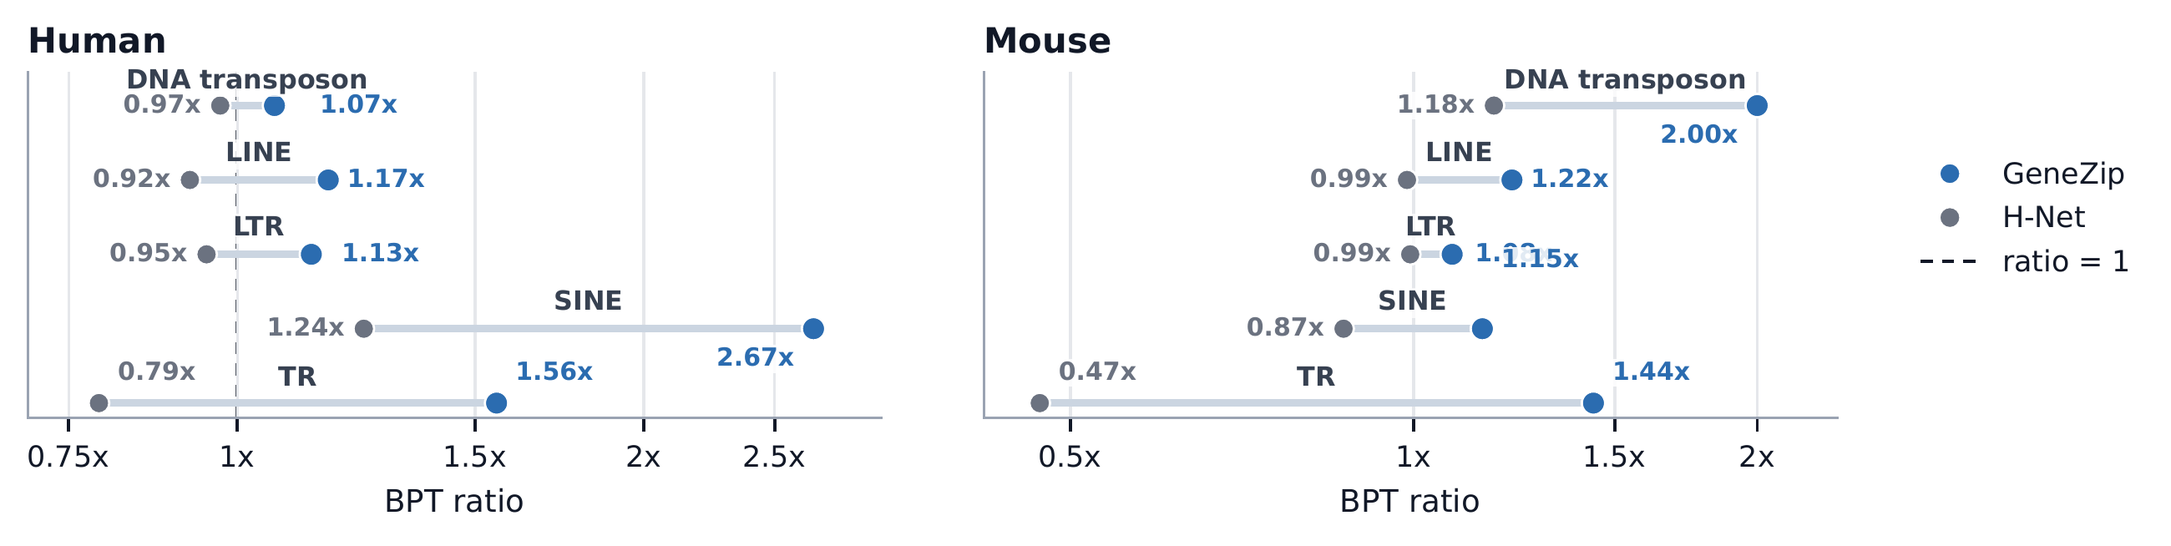
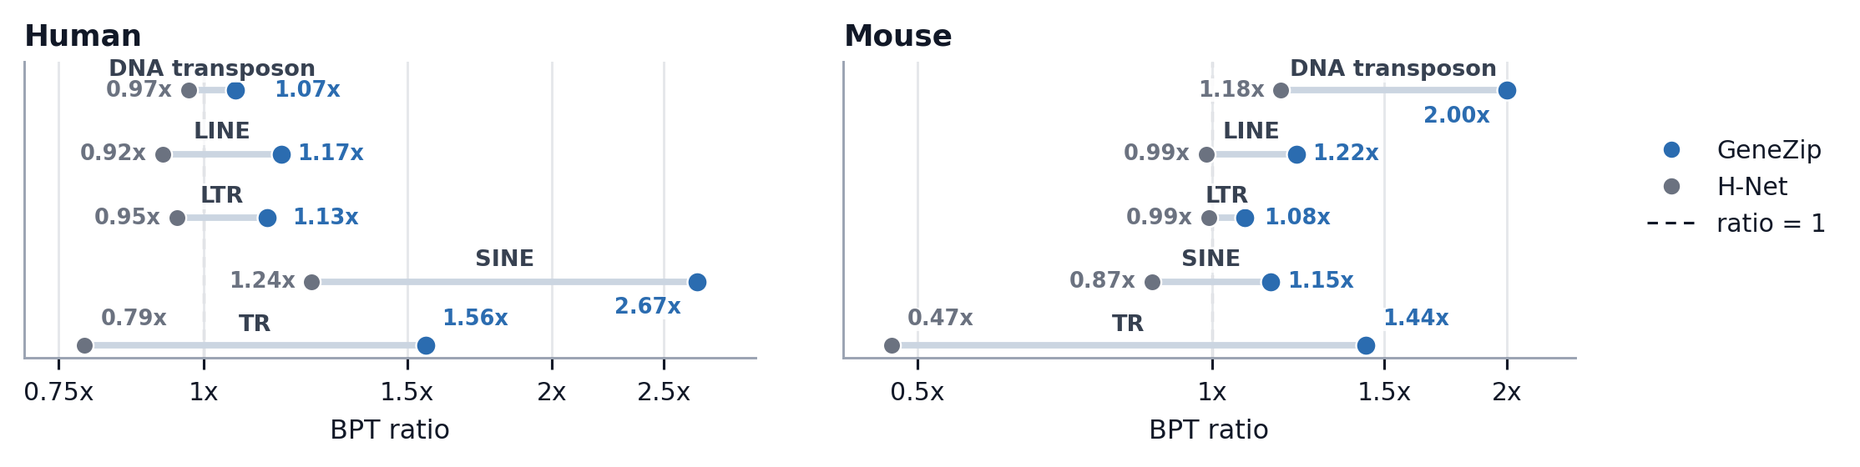
[25.2 Website - GeneZip] 📝 Clarify emergent compression and project-page evidence

diff --git a/genezip/index.html b/genezip/index.html
@@ -41,7 +41,7 @@
       <div class="motivation-copy">
         <p class="eyebrow">01 / Motivation</p>
         <h2 id="motivation-heading">Information in DNA is <strong class="motivation-emphasis">unevenly</strong> distributed</h2>
-        <p>Different genomic regions need different representational budgets. GeneZip learns non-uniform compression instead of allocating the same resolution everywhere.</p>
+        <p>Promoters, exons and long intronic or intergenic spans carry different kinds of information. GeneZip learns where to retain finer resolution, so long DNA sequences can be compressed while preserving information useful for genomic prediction.</p>
       </div>
       <figure class="motivation-figure">
         <a class="zoom-link" href="assets/motivation.png" data-lightbox data-caption="Conceptual illustration of uniform and region-aware chunking; not experimental data." aria-label="Enlarge the conceptual chunking illustration"><img src="assets/motivation.png" alt="Conceptual illustration: equal-width chunks allocate uniform resolution; region-aware chunks allocate different resolutions across the same genomic sequence." width="1935" height="813" loading="lazy"></a>
@@ -51,22 +51,22 @@
     <section class="research-section method-section" id="method" aria-labelledby="method-heading">
       <p class="eyebrow">02 / Method</p>
       <h2 id="method-heading">How GeneZip allocates compression</h2>
-      <p class="section-intro">GeneZip combines sequence-dependent dynamic routing with a region-aware training objective and explicit token-count constraints.</p>
+      <p class="section-intro">GeneZip builds on H-Net's dynamic routing to turn raw DNA into a shorter sequence of latent tokens. Regional targets guide where resolution is retained, while bounded routing keeps token counts within a tractable range.</p>
       <div class="method-roles">
         <article class="routing-role">
           <h3>Dynamic routing</h3>
-          <p>Learn sequence-dependent chunk boundaries.</p>
+          <p>Predict chunk boundaries from DNA sequence, so chunk lengths can vary along the genome.</p>
         </article>
         <div class="complementary-roles">
           <article class="supporting-role">
             <h3>Region-Aware Ratio (RAR)</h3>
             <p class="role-label">Training objective</p>
-            <p>Guide region-wise token allocation during training.</p>
+            <p>Use gene-structure annotations to train the router toward regional compression targets, preserving finer resolution in promoters and genic regions under the default prior.</p>
           </article>
           <article class="supporting-role">
             <h3>Bounded routing</h3>
             <p class="role-label">Routing constraint</p>
-            <p>Enforce lower and upper bounds on token counts.</p>
+            <p>Enforce lower and upper token-count limits to prevent empty representations and excessive memory use.</p>
           </article>
         </div>
       </div>
@@ -77,50 +77,57 @@
       <div class="quality-metrics compression-metrics" aria-label="Compression, language modeling quality and inference efficiency">
           <div class="metric">
             <p class="metric-value">137.6 BPT</p>
-            <p>Base pairs per token<br>(GeneZip-70M)</p>
+            <p>Base pairs per token<br>GeneZip-70M · pretraining validation</p>
           </div>
           <div class="metric">
             <p class="metric-value">+0.31 PPL</p>
-            <p>GeneZip-70M vs. uncompressed Mamba2-84M</p>
+            <p>Validation perplexity increase<br>vs. uncompressed Mamba2-84M</p>
           </div>
           <div class="metric">
             <p class="metric-value">36.1×</p>
             <p class="metric-label">Inference speedup</p>
-            <p>450-kb inputs · GeneZip-70M vs. JanusDNA-7.7M · single H100</p>
+            <p>100 × 450-kb inputs · GeneZip-70M vs. JanusDNA-7.7M · single H100 · largest verified batch per model</p>
           </div>
         </div>
-      <h2 id="compression-heading">Region-Aware Compression</h2>
-      <p class="section-intro">GeneZip concentrates token boundaries around promoters and transcribed features, while compressing long intronic and intergenic spans more strongly.</p>
+      <h2 id="compression-heading">Learned regional preferences transfer to unseen DNA</h2>
+      <p class="section-intro">On held-out human and mouse sequences, GeneZip retains about twice its sequence-average token density in promoters. The loci below show how this learned preference appears locally: boundary probabilities peak near promoter and exonic features, with lower values across long intronic spans.</p>
       <figure class="region-figure">
-        <a class="zoom-link" href="assets/region-aware.png" data-lightbox data-caption="Region-aware compression at two chr9 loci — figure from GeneZip Twitter Slides, slide 2." aria-label="Enlarge region-aware compression case studies"><img src="assets/region-aware.png" alt="Two chr9 loci show genomic region annotations above per-base boundary probabilities. GeneZip in blue concentrates peaks around promoters and transcribed features compared with H-Net in orange." width="1992" height="688" loading="lazy"></a>
-        <figcaption>Two representative chr9 loci: a promoter-dense transcript locus (top) and an intron-dominated gene locus (bottom). Curves show per-base boundary probability, with GeneZip in blue and H-Net in orange.<br>Gene-structure labels guide training; inference uses raw DNA without annotations.</figcaption>
+        <a class="zoom-link" href="assets/region-aware.png" data-lightbox data-caption="Learned boundary probabilities at a promoter-dense locus and an intron-dominated locus on held-out human chromosome 9." aria-label="Enlarge region-aware compression case studies"><img src="assets/region-aware.png" alt="Two chr9 loci show genomic region annotations above per-base boundary probabilities. GeneZip in blue concentrates peaks around promoters and transcribed features compared with H-Net in orange." width="1992" height="688" loading="lazy"></a>
+        <figcaption>Two held-out chr9 loci: a promoter-dense transcript locus (top) and an intron-dominated gene locus (bottom). Curves show per-base boundary probability for GeneZip (blue) and H-Net (orange), computed from raw DNA without annotations.</figcaption>
       </figure>
-      <h2 class="analysis-subheading" id="evidence-heading">Emergent Behaviour: Redundancy-Aware Compression</h2>
-      <h3 class="figure-heading">Redundancy-aware compression across repeats</h3>
+      <h2 class="analysis-subheading" id="evidence-heading"><strong class="motivation-emphasis">Repeats</strong> are a major source of DNA redundancy</h2>
+      <p class="section-intro">GeneZip is trained with gene-structure labels, without repeat-specific supervision. Yet it learns to allocate fewer tokens per base to repetitive DNA than to the surrounding sequence: <strong>emergent redundancy-aware compression</strong>.</p>
+      <h3 class="figure-heading">Stronger repeat compression across human and mouse</h3>
+      <p class="section-intro">GeneZip and H-Net predict repeat sequences with nearly identical perplexity, but allocate tokens differently. GeneZip has higher repeat-to-background compression ratios in all ten evaluated subsets, spanning transposon-derived and tandem repeats.</p>
       <figure class="repeat-figure">
-        <a class="zoom-link" href="assets/repeat-compression.png" data-lightbox data-caption="Redundancy-aware compression across TE-derived and tandem-repeat sequence — original paper figure." aria-label="Enlarge Human and Mouse repeat compression results"><img src="assets/repeat-compression.png" alt="Human and Mouse BPT ratios for DNA transposon, LINE, LTR, SINE and tandem repeats, comparing GeneZip with H-Net. GeneZip has higher repeat/non-repeat BPT ratios in every displayed subset." loading="lazy" width="2600" height="654"></a>
-        <figcaption>BPT ratio compares repeat positions with matched non-repeat positions. Values above 1 indicate stronger local compression.<br>GeneZip allocates higher local compression especially to LINE, human SINE and tandem repeats.<br><span class="caption-note">Post-hoc analysis; repeat annotations are not used for training.</span></figcaption>
+        <a class="zoom-link" href="assets/repeat-compression.png" data-lightbox data-caption="Redundancy-aware compression across TE-derived and tandem-repeat sequence — original paper figure." aria-label="Enlarge Human and Mouse repeat compression results"><img src="assets/repeat-compression.png" alt="Human and Mouse BPT ratios for DNA transposon, LINE, LTR, SINE and tandem repeats, comparing GeneZip with H-Net. GeneZip has higher repeat/non-repeat BPT ratios in every displayed subset." loading="lazy" width="2228" height="560"></a>
+        <figcaption>Repeat/non-repeat BPT on held-out human and mouse sequences. Ratios above 1 mean fewer tokens per base in repeats than in matched non-repeat positions from the same sequence window. TR denotes tandem repeats.</figcaption>
       </figure>
       <div class="repeat-detail">
+        <h3 class="figure-heading">Predictable repeats receive fewer tokens</h3>
         <figure class="tandem-figure">
           <a class="zoom-link" href="assets/tandem-repeat.png" data-lightbox data-caption="Predictability and compression of tandem-repeat interiors — original paper figure." aria-label="Enlarge tandem-repeat predictability and compression results"><img src="assets/tandem-repeat.png" alt="Tandem-repeat positions have lower perplexity than matched non-repeat positions; GeneZip and GeneZip-128K allocate higher BPT to tandem-repeat interiors, unlike HNet." loading="lazy" width="2600" height="1053"></a>
-          <figcaption>Post-hoc tandem-repeat analysis. Repeat labels are not used for training.</figcaption>
+          <figcaption>Tandem repeats are easier to predict for all three models (PPL ratio &lt; 1, left). GeneZip and GeneZip-128K compress them more strongly than the background (BPT ratio &gt; 1, right); H-Net allocates more tokens per base to these repeats.</figcaption>
         </figure>
       </div>
+      <p class="section-intro">This behaviour transfers beyond the human training genome. Without further training, GeneZip shows stronger tandem-repeat compression relative to background than H-Net in all nine species of a separate evaluation panel, from mouse to Arabidopsis (<a href="assets/GeneZip-CameraReadyV7.8.pdf#page=22" target="_blank" rel="noopener">Table 11</a>).</p>
     </section>
 
     <section class="research-section downstream-section" id="downstream" aria-labelledby="downstream-heading">
       <p class="eyebrow">04 / Downstream performance</p>
-      <h2 id="downstream-heading">Useful compression for long-context DNA</h2>
-      <p class="section-intro">GeneZip leads on three of four tasks within the matched-pretraining group. Mamba2 remains strongest on TISP.</p>
-      <figure class="grouped-benchmark" aria-label="Four task panels with independent score axes and grouped vertical model bars"><div class="grouped-legend"><span><i style="background:#68778b" aria-hidden="true"></i>Mamba2-84M</span><span><i style="background:#b8c1cc" aria-hidden="true"></i>U-Net-70M</span><span><i style="background:#438a91" aria-hidden="true"></i>H-Net-70M</span><span><i style="background:#c64c2e" aria-hidden="true"></i>GeneZip-70M</span></div><div class="task-panels-scroll"><div class="task-panels"><section class="task-panel" aria-label="CMP, SCC, axis 0.10 to 0.14, truncated"><h3>CMP</h3><p>SCC ↑</p><div class="panel-plot"><div class="panel-axis" aria-hidden="true"><span style="bottom:0.00000%">0.10</span><span style="bottom:25.00000%">0.11</span><span style="bottom:50.00000%">0.12</span><span style="bottom:75.00000%">0.13</span><span style="bottom:100.00000%">0.14</span></div><div class="panel-grid" aria-hidden="true"><span style="bottom:0.00000%"></span><span style="bottom:25.00000%"></span><span style="bottom:50.00000%"></span><span style="bottom:75.00000%"></span><span style="bottom:100.00000%"></span></div><div class="panel-bars"><div class="vertical-bar" style="height:27.500000%;background:#68778b" role="img" aria-label="CMP, Mamba2-84M: 0.111"><span class="vertical-value">0.111</span></div><div class="vertical-bar" style="height:77.500000%;background:#b8c1cc" role="img" aria-label="CMP, U-Net-70M: 0.131"><span class="vertical-value">0.131</span></div><div class="vertical-bar" style="height:45.000000%;background:#438a91" role="img" aria-label="CMP, H-Net-70M: 0.118"><span class="vertical-value">0.118</span></div><div class="vertical-bar" style="height:82.500000%;background:#c64c2e" role="img" aria-label="CMP, GeneZip-70M: 0.133"><span class="vertical-value">0.133</span></div></div></div></section><section class="task-panel" aria-label="eQTL, AUROC, axis 0.74 to 0.84, truncated"><h3>eQTL</h3><p>AUROC ↑</p><div class="panel-plot"><div class="panel-axis" aria-hidden="true"><span style="bottom:0.00000%">0.74</span><span style="bottom:20.00000%">0.76</span><span style="bottom:40.00000%">0.78</span><span style="bottom:60.00000%">0.80</span><span style="bottom:80.00000%">0.82</span><span style="bottom:100.00000%">0.84</span></div><div class="panel-grid" aria-hidden="true"><span style="bottom:0.00000%"></span><span style="bottom:20.00000%"></span><span style="bottom:40.00000%"></span><span style="bottom:60.00000%"></span><span style="bottom:80.00000%"></span><span style="bottom:100.00000%"></span></div><div class="panel-bars"><div class="vertical-bar" style="height:22.000000%;background:#68778b" role="img" aria-label="eQTL, Mamba2-84M: 0.762"><span class="vertical-value">0.762</span></div><div class="vertical-bar" style="height:29.000000%;background:#b8c1cc" role="img" aria-label="eQTL, U-Net-70M: 0.769"><span class="vertical-value">0.769</span></div><div class="vertical-bar" style="height:69.000000%;background:#438a91" role="img" aria-label="eQTL, H-Net-70M: 0.809"><span class="vertical-value">0.809</span></div><div class="vertical-bar" style="height:77.000000%;background:#c64c2e" role="img" aria-label="eQTL, GeneZip-70M: 0.817"><span class="vertical-value">0.817</span></div></div></div></section><section class="task-panel" aria-label="ETGP, AUPRC, axis 0 to 0.4"><h3>ETGP</h3><p>AUPRC ↑</p><div class="panel-plot"><div class="panel-axis" aria-hidden="true"><span style="bottom:0.00000%">0</span><span style="bottom:25.00000%">0.1</span><span style="bottom:50.00000%">0.2</span><span style="bottom:75.00000%">0.3</span><span style="bottom:100.00000%">0.4</span></div><div class="panel-grid" aria-hidden="true"><span style="bottom:0.00000%"></span><span style="bottom:25.00000%"></span><span style="bottom:50.00000%"></span><span style="bottom:75.00000%"></span><span style="bottom:100.00000%"></span></div><div class="panel-bars"><div class="vertical-bar" style="height:80.500000%;background:#68778b" role="img" aria-label="ETGP, Mamba2-84M: 0.322"><span class="vertical-value">0.322</span></div><div class="vertical-bar" style="height:61.000000%;background:#b8c1cc" role="img" aria-label="ETGP, U-Net-70M: 0.244"><span class="vertical-value">0.244</span></div><div class="vertical-bar" style="height:32.750000%;background:#438a91" role="img" aria-label="ETGP, H-Net-70M: 0.131"><span class="vertical-value">0.131</span></div><div class="vertical-bar" style="height:93.750000%;background:#c64c2e" role="img" aria-label="ETGP, GeneZip-70M: 0.375"><span class="vertical-value">0.375</span></div></div></div></section><section class="task-panel" aria-label="TISP, PCC, axis 0 to 0.32"><h3>TISP</h3><p>PCC ↑</p><div class="panel-plot"><div class="panel-axis" aria-hidden="true"><span style="bottom:0.00000%">0</span><span style="bottom:25.00000%">0.08</span><span style="bottom:50.00000%">0.16</span><span style="bottom:75.00000%">0.24</span><span style="bottom:100.00000%">0.32</span></div><div class="panel-grid" aria-hidden="true"><span style="bottom:0.00000%"></span><span style="bottom:25.00000%"></span><span style="bottom:50.00000%"></span><span style="bottom:75.00000%"></span><span style="bottom:100.00000%"></span></div><div class="panel-bars"><div class="vertical-bar" style="height:91.875000%;background:#68778b" role="img" aria-label="TISP, Mamba2-84M: 0.294"><span class="vertical-value">0.294</span></div><div class="vertical-bar" style="height:2.500000%;background:#b8c1cc" role="img" aria-label="TISP, U-Net-70M: 0.008"><span class="vertical-value">0.008</span></div><div class="vertical-bar" style="height:73.437500%;background:#438a91" role="img" aria-label="TISP, H-Net-70M: 0.235"><span class="vertical-value">0.235</span></div><div class="vertical-bar" style="height:85.625000%;background:#c64c2e" role="img" aria-label="TISP, GeneZip-70M: 0.274"><span class="vertical-value">0.274</span></div></div></div></section></div></div><figcaption>Independent axes: CMP (0.10–0.14) and eQTL (0.74–0.84) use nonzero baselines to show differences; ETGP and TISP start at zero. All four models use matched, leakage-controlled pretraining. Higher is better within each task. Scores follow Paper V7.8.</figcaption></figure>
-      <details class="benchmark-data"><summary>View all scores and source data</summary><div class="table-scroll"><table><caption>DNALongBench · Paper V7.8 summary scores</caption><thead><tr><th scope="col">Model</th><th scope="col">Pretraining group</th><th scope="col">CMP SCC</th><th scope="col">eQTL AUROC</th><th scope="col">ETGP AUPRC</th><th scope="col">TISP PCC</th></tr></thead><tbody><tr><th scope="row">HyenaDNA-6.6M</th><td>DNALongBench-official</td><td>0.115</td><td>0.514</td><td>0.249</td><td>0.132</td></tr><tr><th scope="row">Caduceus-Ph-7.7M</th><td>DNALongBench-official</td><td>0.133</td><td>0.566</td><td>0.380</td><td>0.109</td></tr><tr><th scope="row">Caduceus-PS-7.7M</th><td>DNALongBench-official</td><td>0.127</td><td>0.538</td><td>0.376</td><td>0.108</td></tr><tr><th scope="row">JanusDNA-7.7M</th><td>External-pretraining</td><td>0.159</td><td>0.840</td><td>0.438</td><td>0.002</td></tr><tr><th scope="row">NTv3-100M-pre</th><td>External-pretraining</td><td>0.136</td><td>0.792</td><td>0.440</td><td>0.194</td></tr><tr><th scope="row">Evo2-1B</th><td>External-pretraining</td><td>0.018</td><td>0.754</td><td>0.095</td><td>-0.002</td></tr><tr><th scope="row">Mamba2-84M</th><td>Leakage-controlled-pretraining</td><td>0.111</td><td>0.762</td><td>0.322</td><td>0.294</td></tr><tr><th scope="row">U-Net-70M</th><td>Leakage-controlled-pretraining</td><td>0.131</td><td>0.769</td><td>0.244</td><td>0.008</td></tr><tr><th scope="row">H-Net-70M</th><td>Leakage-controlled-pretraining</td><td>0.118</td><td>0.809</td><td>0.131</td><td>0.235</td></tr><tr><th scope="row">GeneZip-70M</th><td>Leakage-controlled-pretraining</td><td>0.133</td><td>0.817</td><td>0.375</td><td>0.274</td></tr></tbody></table></div><p><a href="assets/dnalongbench.csv" download>Download scores (CSV)</a> · <a href="assets/GeneZip-CameraReadyV7.8.pdf" target="_blank" rel="noopener">Paper and evaluation protocols</a></p></details>
+      <h2 id="downstream-heading">High compression preserves predictive utility</h2>
+      <p class="section-intro">One pretrained GeneZip-70M checkpoint, adapted separately to each task, outperforms H-Net and U-Net on all four DNALongBench task metrics below. Among models sharing the leakage-controlled pretraining setup, GeneZip leads on CMP, eQTL and ETGP; uncompressed Mamba2 remains strongest on TISP.</p>
+      <figure class="grouped-benchmark" aria-label="Four task panels with independent score axes and grouped vertical model bars"><div class="grouped-legend"><span><i style="background:#68778b" aria-hidden="true"></i>Mamba2-84M</span><span><i style="background:#b8c1cc" aria-hidden="true"></i>U-Net-70M</span><span><i style="background:#438a91" aria-hidden="true"></i>H-Net-70M</span><span><i style="background:#c64c2e" aria-hidden="true"></i>GeneZip-70M</span></div><div class="task-panels-scroll"><div class="task-panels"><section class="task-panel" aria-label="CMP, SCC, axis 0.10 to 0.14, truncated"><h3>CMP</h3><p>SCC ↑</p><div class="panel-plot"><div class="panel-axis" aria-hidden="true"><span style="bottom:0.00000%">0.10</span><span style="bottom:25.00000%">0.11</span><span style="bottom:50.00000%">0.12</span><span style="bottom:75.00000%">0.13</span><span style="bottom:100.00000%">0.14</span></div><div class="panel-grid" aria-hidden="true"><span style="bottom:0.00000%"></span><span style="bottom:25.00000%"></span><span style="bottom:50.00000%"></span><span style="bottom:75.00000%"></span><span style="bottom:100.00000%"></span></div><div class="panel-bars"><div class="vertical-bar" style="height:27.500000%;background:#68778b" role="img" aria-label="CMP, Mamba2-84M: 0.111"><span class="vertical-value">0.111</span></div><div class="vertical-bar" style="height:77.500000%;background:#b8c1cc" role="img" aria-label="CMP, U-Net-70M: 0.131"><span class="vertical-value">0.131</span></div><div class="vertical-bar" style="height:45.000000%;background:#438a91" role="img" aria-label="CMP, H-Net-70M: 0.118"><span class="vertical-value">0.118</span></div><div class="vertical-bar" style="height:82.500000%;background:#c64c2e" role="img" aria-label="CMP, GeneZip-70M: 0.133"><span class="vertical-value">0.133</span></div></div></div></section><section class="task-panel" aria-label="eQTL, AUROC, axis 0.74 to 0.84, truncated"><h3>eQTL</h3><p>AUROC ↑</p><div class="panel-plot"><div class="panel-axis" aria-hidden="true"><span style="bottom:0.00000%">0.74</span><span style="bottom:20.00000%">0.76</span><span style="bottom:40.00000%">0.78</span><span style="bottom:60.00000%">0.80</span><span style="bottom:80.00000%">0.82</span><span style="bottom:100.00000%">0.84</span></div><div class="panel-grid" aria-hidden="true"><span style="bottom:0.00000%"></span><span style="bottom:20.00000%"></span><span style="bottom:40.00000%"></span><span style="bottom:60.00000%"></span><span style="bottom:80.00000%"></span><span style="bottom:100.00000%"></span></div><div class="panel-bars"><div class="vertical-bar" style="height:22.000000%;background:#68778b" role="img" aria-label="eQTL, Mamba2-84M: 0.762"><span class="vertical-value">0.762</span></div><div class="vertical-bar" style="height:29.000000%;background:#b8c1cc" role="img" aria-label="eQTL, U-Net-70M: 0.769"><span class="vertical-value">0.769</span></div><div class="vertical-bar" style="height:69.000000%;background:#438a91" role="img" aria-label="eQTL, H-Net-70M: 0.809"><span class="vertical-value">0.809</span></div><div class="vertical-bar" style="height:77.000000%;background:#c64c2e" role="img" aria-label="eQTL, GeneZip-70M: 0.817"><span class="vertical-value">0.817</span></div></div></div></section><section class="task-panel" aria-label="ETGP, AUPRC, axis 0 to 0.4"><h3>ETGP</h3><p>AUPRC ↑</p><div class="panel-plot"><div class="panel-axis" aria-hidden="true"><span style="bottom:0.00000%">0</span><span style="bottom:25.00000%">0.1</span><span style="bottom:50.00000%">0.2</span><span style="bottom:75.00000%">0.3</span><span style="bottom:100.00000%">0.4</span></div><div class="panel-grid" aria-hidden="true"><span style="bottom:0.00000%"></span><span style="bottom:25.00000%"></span><span style="bottom:50.00000%"></span><span style="bottom:75.00000%"></span><span style="bottom:100.00000%"></span></div><div class="panel-bars"><div class="vertical-bar" style="height:80.500000%;background:#68778b" role="img" aria-label="ETGP, Mamba2-84M: 0.322"><span class="vertical-value">0.322</span></div><div class="vertical-bar" style="height:61.000000%;background:#b8c1cc" role="img" aria-label="ETGP, U-Net-70M: 0.244"><span class="vertical-value">0.244</span></div><div class="vertical-bar" style="height:32.750000%;background:#438a91" role="img" aria-label="ETGP, H-Net-70M: 0.131"><span class="vertical-value">0.131</span></div><div class="vertical-bar" style="height:93.750000%;background:#c64c2e" role="img" aria-label="ETGP, GeneZip-70M: 0.375"><span class="vertical-value">0.375</span></div></div></div></section><section class="task-panel" aria-label="TISP, PCC, axis 0 to 0.32"><h3>TISP</h3><p>PCC ↑</p><div class="panel-plot"><div class="panel-axis" aria-hidden="true"><span style="bottom:0.00000%">0</span><span style="bottom:25.00000%">0.08</span><span style="bottom:50.00000%">0.16</span><span style="bottom:75.00000%">0.24</span><span style="bottom:100.00000%">0.32</span></div><div class="panel-grid" aria-hidden="true"><span style="bottom:0.00000%"></span><span style="bottom:25.00000%"></span><span style="bottom:50.00000%"></span><span style="bottom:75.00000%"></span><span style="bottom:100.00000%"></span></div><div class="panel-bars"><div class="vertical-bar" style="height:91.875000%;background:#68778b" role="img" aria-label="TISP, Mamba2-84M: 0.294"><span class="vertical-value">0.294</span></div><div class="vertical-bar" style="height:2.500000%;background:#b8c1cc" role="img" aria-label="TISP, U-Net-70M: 0.008"><span class="vertical-value">0.008</span></div><div class="vertical-bar" style="height:73.437500%;background:#438a91" role="img" aria-label="TISP, H-Net-70M: 0.235"><span class="vertical-value">0.235</span></div><div class="vertical-bar" style="height:85.625000%;background:#c64c2e" role="img" aria-label="TISP, GeneZip-70M: 0.274"><span class="vertical-value">0.274</span></div></div></div></section></div></div><figcaption>Held-out test performance for contact map prediction (CMP), eQTL prediction, enhancer–target gene prediction (ETGP), and transcription initiation signal prediction (TISP). All four models share the pretraining corpus, context length and training budget; adaptation is task- and model-specific. Higher is better. CMP and eQTL axes start above zero; ETGP and TISP start at zero.</figcaption></figure>
+      <p class="section-intro">In a separate inference benchmark on 100 sequences of 450 kb, GeneZip takes 6.34 seconds versus H-Net's 11.78 seconds on one H100, a 1.86× speedup. U-Net is faster at 4.85 seconds; GeneZip delivers stronger prediction across all four tasks.</p>
+      <details class="benchmark-data"><summary>View all scores and source data</summary><div class="table-scroll"><table><caption>DNALongBench · Held-out test scores</caption><thead><tr><th scope="col">Model</th><th scope="col">Pretraining group</th><th scope="col">CMP SCC</th><th scope="col">eQTL AUROC</th><th scope="col">ETGP AUPRC</th><th scope="col">TISP PCC</th></tr></thead><tbody><tr><th scope="row">HyenaDNA-6.6M</th><td>DNALongBench-official</td><td>0.115</td><td>0.514</td><td>0.249</td><td>0.132</td></tr><tr><th scope="row">Caduceus-Ph-7.7M</th><td>DNALongBench-official</td><td>0.133</td><td>0.566</td><td>0.380</td><td>0.109</td></tr><tr><th scope="row">Caduceus-PS-7.7M</th><td>DNALongBench-official</td><td>0.127</td><td>0.538</td><td>0.376</td><td>0.108</td></tr><tr><th scope="row">JanusDNA-7.7M</th><td>External-pretraining</td><td>0.159</td><td>0.840</td><td>0.438</td><td>0.002</td></tr><tr><th scope="row">NTv3-100M-pre</th><td>External-pretraining</td><td>0.136</td><td>0.792</td><td>0.440</td><td>0.194</td></tr><tr><th scope="row">Evo2-1B</th><td>External-pretraining</td><td>0.018</td><td>0.754</td><td>0.095</td><td>-0.002</td></tr><tr><th scope="row">Mamba2-84M</th><td>Leakage-controlled-pretraining</td><td>0.111</td><td>0.762</td><td>0.322</td><td>0.294</td></tr><tr><th scope="row">U-Net-70M</th><td>Leakage-controlled-pretraining</td><td>0.131</td><td>0.769</td><td>0.244</td><td>0.008</td></tr><tr><th scope="row">H-Net-70M</th><td>Leakage-controlled-pretraining</td><td>0.118</td><td>0.809</td><td>0.131</td><td>0.235</td></tr><tr><th scope="row">GeneZip-70M</th><td>Leakage-controlled-pretraining</td><td>0.133</td><td>0.817</td><td>0.375</td><td>0.274</td></tr></tbody></table></div><p><a href="assets/dnalongbench.csv" download>Download scores (CSV)</a> · <a href="assets/GeneZip-CameraReadyV7.8.pdf" target="_blank" rel="noopener">Paper and evaluation protocols</a></p></details>
     </section>
 
     <section class="research-section" id="models" aria-labelledby="models-heading">
       <h2 id="models-heading">Model variants</h2>
-      <p>GeneZip-70M is the common pretrained starting point for all four main downstream tasks. Each task adapts it separately.</p>
-      <ul><li>GeneZip-70M and GeneZip-70M-128K</li><li>GeneZip-636M and GeneZip-636M-128K</li><li>GeneZip-Regulome and GeneZip-PromoterDistal (70M, N=64)</li><li>GeneZip-Intergenic (70M, N=32)</li></ul>
+      <p>Compression supports both larger models and longer context. The 70M and 636M models each have 12.8K-context and 128K-context variants; the 128K variants receive an additional stage of long-context pretraining.</p>
+      <ul><li>GeneZip-70M and GeneZip-70M-128K</li><li>GeneZip-636M and GeneZip-636M-128K</li></ul>
+      <p>Regional priors also let the same architecture emphasize different genomic compartments. GeneZip-Regulome and GeneZip-PromoterDistal favor broader regulatory context; GeneZip-Intergenic shifts resolution toward distal intergenic sequence.</p>
+      <p>These choices produce task-dependent trade-offs: Intergenic improves ETGP AUPRC from 0.375 to 0.446 but lowers TISP PCC from 0.274 to 0.224. The default promoter/genic prior provides the broadest performance among the tested GeneZip configurations (<a href="assets/GeneZip-CameraReadyV7.8.pdf#page=23" target="_blank" rel="noopener">regional-prior comparison</a>).</p>
     </section>
 
     <section class="research-section resources-section" id="resources" aria-labelledby="resources-heading">

diff --git a/genezip/styles.css b/genezip/styles.css
@@ -57,6 +57,9 @@ figcaption strong { font-weight: 600; color: var(--text); }
 .motivation-figure { margin: 0; }
 .motivation-figure img { display: block; }
 .section-intro { max-width: 90ch; margin-bottom: 20px; }
+.repeat-detail + .section-intro { margin-top: 20px; }
+#models > p + p { margin-top: 14px; }
+#models > ul { list-style: disc; margin: 14px 0 14px 22px; }
 .method-roles { margin-top: 20px; }
 .routing-role, .supporting-role { border-radius: 9px; padding: 19px 22px; text-align: center; border: 1px solid #96b1d1; }
 .routing-role { background: var(--blue-wash); }
